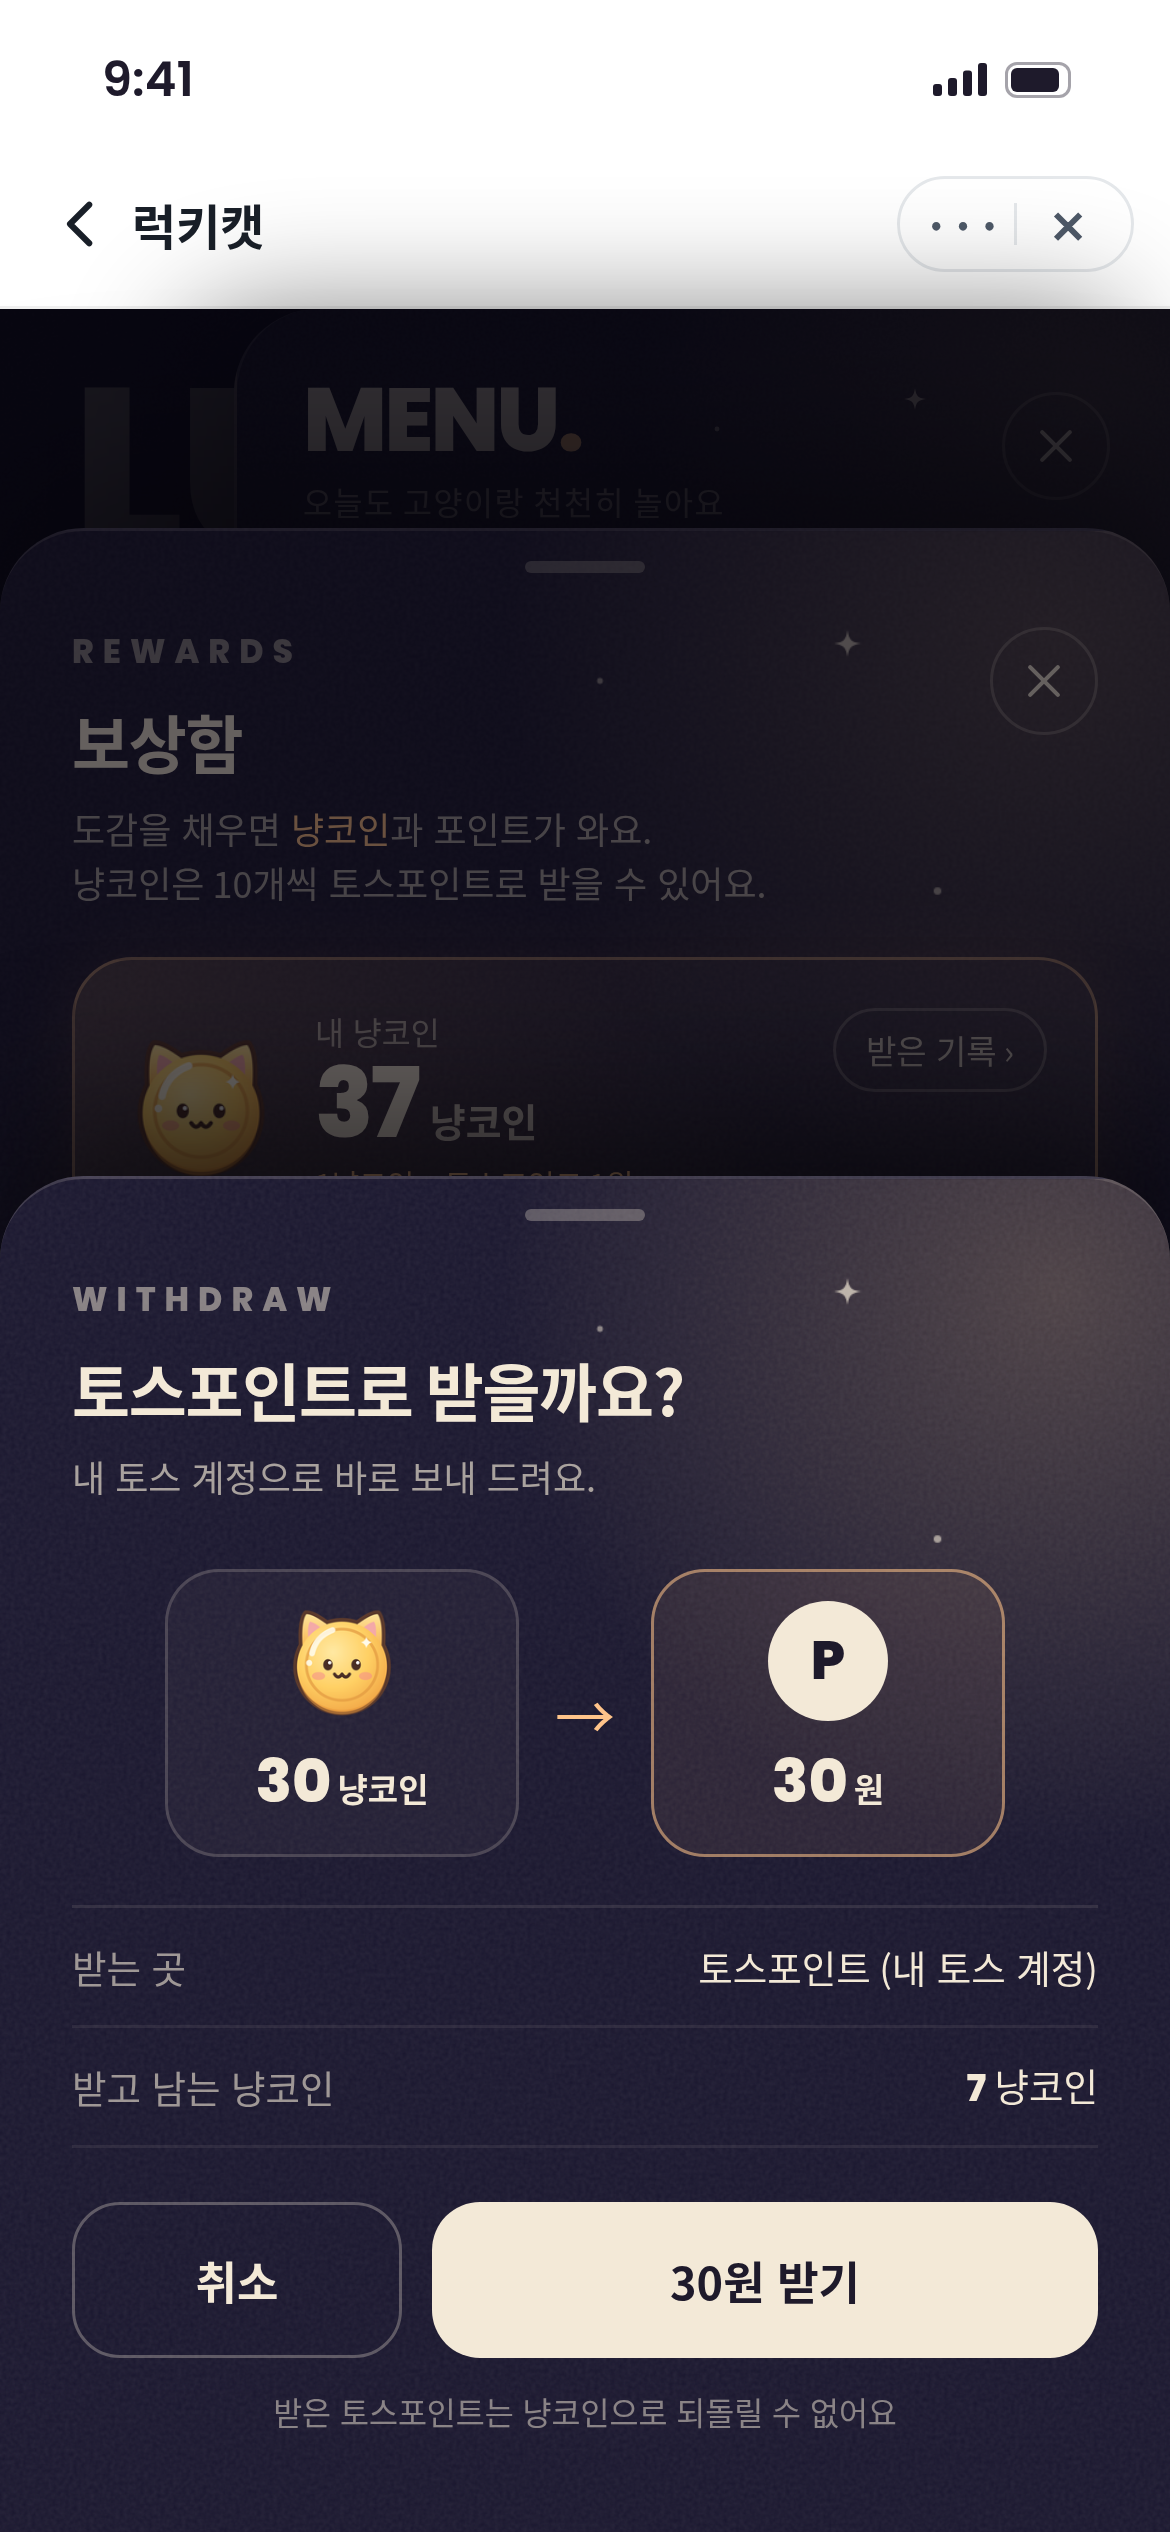
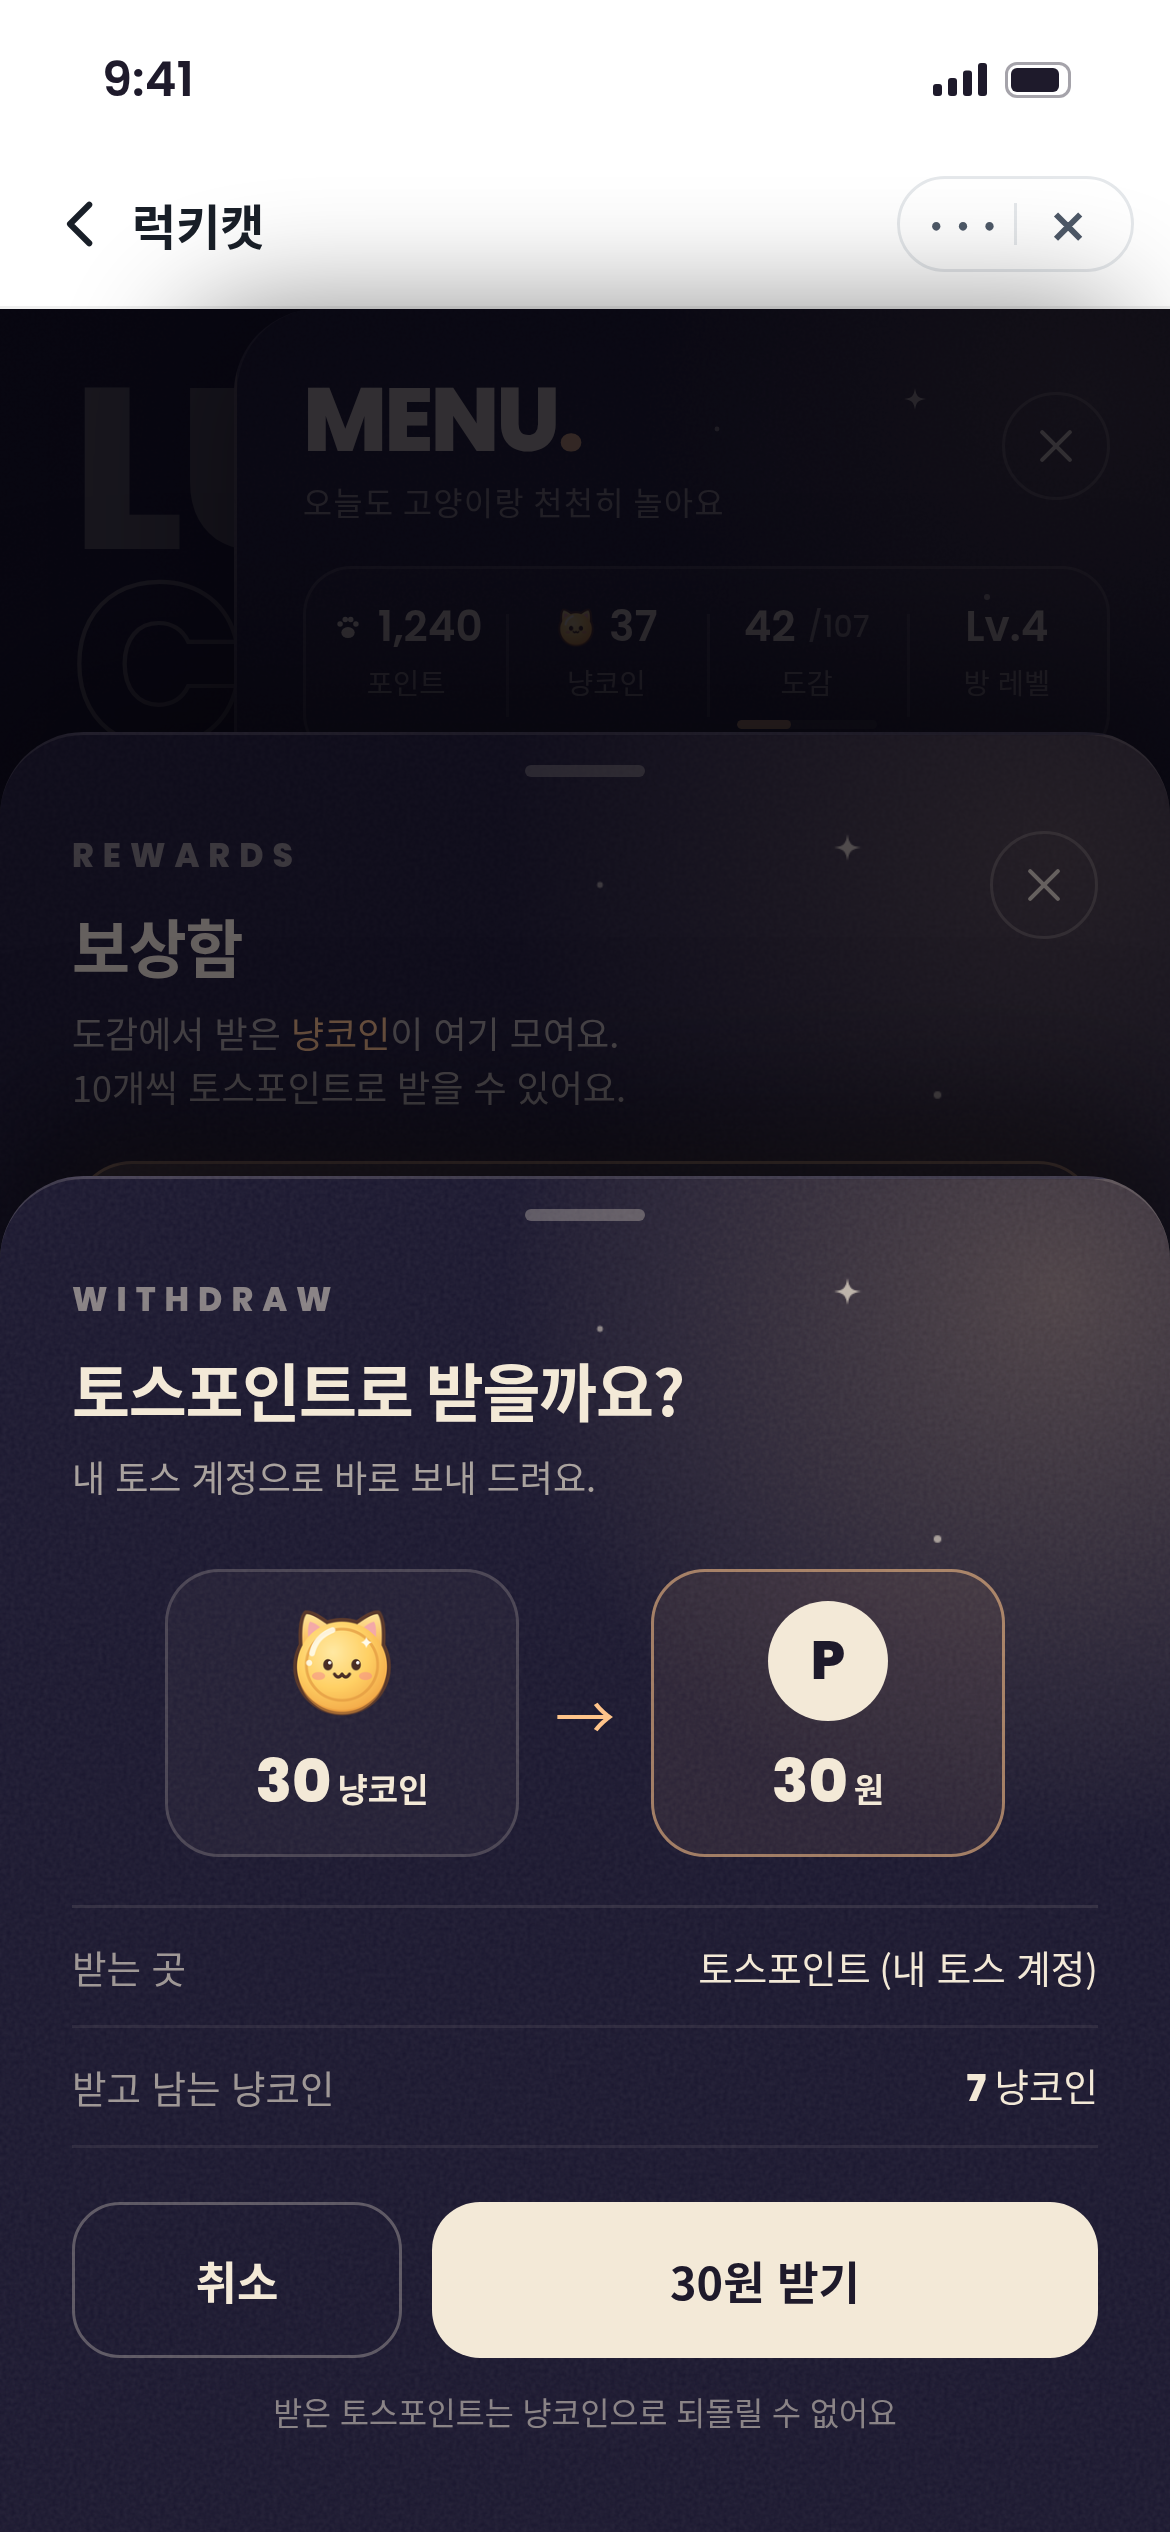
Update room assets

diff --git a/docs/draw-reveal/draw-reveal.html b/docs/draw-reveal/draw-reveal.html
@@ -53,6 +53,9 @@ body:not(.chrome) .content{top:0}
 .btn{height:52px;border-radius:16px;border:0;font-family:inherit;font-size:16px;font-weight:700;display:flex;align-items:center;justify-content:center;gap:8px}
 .btn.p{background:linear-gradient(180deg,#FFD3A0,#FFB36B);color:#2A1E10;box-shadow:0 8px 22px rgba(255,179,107,.28)}
 .btn.s{background:rgba(243,233,215,.08);color:#F3E9D7;border:1px solid rgba(243,233,215,.28);font-weight:500;font-size:15px}
+.btn.s.nudge{border-color:rgba(255,196,138,.7);box-shadow:0 0 0 5px rgba(255,196,138,.07),0 0 20px rgba(255,179,107,.25);animation:nudge 2.6s ease-in-out 1.2s infinite}
+@keyframes nudge{0%,80%,100%{transform:translateY(0)}86%{transform:translateY(-3px)}92%{transform:translateY(0)}96%{transform:translateY(-1.5px)}}
+.btn.s .adl{font-style:normal;font-size:9.5px;font-weight:700;border:1px solid rgba(243,233,215,.35);border-radius:5px;padding:0 5px;line-height:15px;color:rgba(243,233,215,.75)}
 .btn.s em{font-style:normal;font-size:11px;padding:2px 7px;border-radius:99px;background:rgba(243,233,215,.14);color:rgba(243,233,215,.85)}
 .toast{position:absolute;left:24px;right:24px;top:12px;z-index:10;display:flex;align-items:center;gap:10px;padding:11px 14px;border-radius:16px;
  background:#1C1830;border:1px solid rgba(243,233,215,.22);box-shadow:0 10px 30px rgba(0,0,0,.4);color:#F3E9D7;font-size:13px;opacity:0;transform:translateY(-24px)}
@@ -89,7 +92,7 @@ body.shot .demo{display:none}
   </div>
   <div class="info" id="info"><div class="n" id="name"></div><div class="s" id="stars"></div><div class="h">카드를 톡 누르면 뒷면을 볼 수 있어요</div></div>
[1 lines of base64/hex data omitted]
-  <div class="btns" id="btns"><button class="btn p" id="btn-to-dex">도감에 넣기</button><button class="btn s" id="btn-draw-again">한 번 더 뽑기 (광고) <em id="remain">남은 2회</em></button></div>
+  <div class="btns" id="btns"><button class="btn p" id="btn-to-dex">도감에 넣기</button><button class="btn s nudge" id="btn-draw-again">한 장 더 뽑기 <i class="adl">광고</i> <em id="remain">남은 2장</em></button></div>
  </div>
  <div class="home"></div>
 </div>

diff --git a/public/assets/dex/dex-claim-spec.md b/public/assets/dex/dex-claim-spec.md
@@ -1,0 +1,23 @@
+# 도감 보상 직접 받기 (claimMode: manual) — dex-spec 추가 섹션
+보상은 자동으로 지급하지 않아요. 도감에서 직접 받아요. 받지 않은 보상은 기한 없이 남아요.
+
+## 보상 id (계정당 1회, 서버에서 확인)
+newCard:{cardId} = 냥코인 1 + 20P · set:breed:{id} = +10 / +200P · set:special|character|legend = +10 / +300P · fullDex = +100 / +3000P
+API `POST /dex/rewards/claim {rewardIds|'all', requestId}`. 유니크 키(tossUserKey+rewardId), 지급과 claimed 표시는 한 트랜잭션, 같은 requestId로 재시도하면 같은 응답
+
+## UI
+| 위치 | id | 문구/동작 |
+|---|---|---|
+| 헤더 칩 | #dex-claim-all-chip / #btn-dex-claim-all | 받을 보상 {n}개 · 냥코인 {c} + {p}P [모두 받기] (n=0이면 숨김) |
+| 탭 점 | .tab .rd | 해당 탭에 받을 보상이 있을 때 |
+| 슬롯 코인 배지 | #dex-claim-{cardId} (.gift, 24pt, glow) | 처음 1회 툴팁: 톡, 눌러서 냥코인 1 + 20P 받기 |
+| 세트 행 | #btn-set-claim-{key} | 완성 보상 받기 (빛나는 버튼) → 축하 시트 |
+| 축하 시트 | #sheet-set-celebrate | SET COMPLETE / {품종} 1~5성을 모두 모았어요! / 한 품종을 끝까지 모은 집사에게 드리는 선물이에요 / +10 냥코인 +200 포인트 / [보상 받기] / 냥코인은 메뉴 › 보상함에서 10개부터 토스포인트로 받을 수 있어요 |
+| 그룹 | 동일 시트 | 스페셜·캐릭터·레전드 카드를 모두 모았어요! (+10 / +300P) |
+| 도감 완성 | #sheet-fulldex | 107마리를 모두 만났어요! 도감 완성! (전체 화면 컨페티, 큰 코인 비) +100 냥코인 +3000 포인트 |
+| 받기 토스트 | #dex-claim-toast | 냥코인 1개 + 20포인트 받았어요 / 보상 {n}개를 한 번에 받았어요 · 냥코인 {c}개 + {p}포인트 / 받을 보상을 모두 받았어요 |
+| 메인 도감 아이콘 | #btn-dex .rd | unclaimedCount>0 |
+| 보상함 | #btn-rewards-to-dex | 도감에서 받을 보상 {n}개 → 도감 가기 (보상함에는 모두 받기를 두지 않음) |
+
+연출: 코인 버스트(6~8개, 600ms) → 헤더 숫자 카운트업 + sfx-reward-coin. 응답을 받은 뒤에만 배지 제거. 실패하면 배지를 유지하고 "잠시 후 다시 받아 주세요"
+Mockups: dex-claim-new.png, dex-claim-set.png, dex-claim-celebrate.png, reveal-new-copy.png

diff --git a/public/assets/menu/menu-spec.md b/public/assets/menu/menu-spec.md
@@ -109,3 +109,6 @@ icon-attendance / points / exchange / rewards / rates / notice / invite / settin
 - 시트: 뽑기권 카드(아이콘 64, "확률업 뽑기권", "광고 없이 확률업 1회 · 5성↑ 27%", 가격 발바닥 아이콘 + 200 Pop 700 amber) → 한도 3칸(이번 주 n/7 · 오늘 n/2 · 보유 n/3) → 내 포인트(→ 산 뒤 잔액 미리보기) → "200P로 사기"(cream) → 보유 ≥1이면 보조 버튼 "지금 확률업 뽑기 (뽑기권 n장)" → 안내 "포인트는 방꾸미기에도 써요 · 이번 주 구매는 월요일 00:00에 다시 열려요".
 - 사면 토스트(상단, 초록 체크) "확률업 뽑기권 1장을 샀어요 / 남은 포인트 1,040P · 보유 1/3". 비활성 문구는 menu.json `sheets.ticketShop.disabled`.
 - 값은 economy.json `shop.tickets.rateUpTicket` (가격·한도), `tickets.rateUpTicket.maxHold`.
+
+## 11. 보상함 변경 (menu-1.6, claimMode manual)
+받을 보상 목록과 모두 받기를 없앴어요. 보상함에는 지갑(출금)과 바로가기 #btn-rewards-to-dex "도감에서 받을 보상 {n}개 · 도감 가기 ›"만 남아요. 받기는 도감 한 곳에서만 해요 (축하 연출을 도감에서 보여 주고, 중복 요청과 혼동을 막기 위해). n=0이면 "받을 도감 보상을 모두 받았어요"

diff --git a/config/ops-guide.md b/config/ops-guide.md
@@ -55,3 +55,6 @@
 - **시뮬레이션**(`/workspace/sim/sim.py opt`, 최대 참여 유저, 살 수 있으면 도감 먼저 구매): 도감 중앙값 285→197일(약 6.5개월), p90 436→297일. 방꾸미기 전부 살 수 있는 날은 144→267일(도감 완성 뒤엔 포인트가 다 방꾸미기로 가요). 포인트를 아끼면 방꾸미기는 그대로 약 144일이에요.
 - **서버**: `POST /shop/tickets/buy {ticketType, requestId}` — 잔액·주/일 한도·보유 한도 검증, paw 차감 + 뽑기권 +1 + 기록을 한 트랜잭션, 멱등키 `tossUserKey + requestId`.
 - **지표**: 주간 뽑기권 구매 수/유저, 광고 확률업 사용률(구매 도입 전후 비교 — 떨어지면 가격을 올리거나 한도를 줄여요).
+
+## 도감 보상 직접 받기 (1.5)
+새 카드와 세트 보상은 자동으로 적립하지 않아요. 도감에서 직접 받아요 (economy.dexRewards). 받지 않은 보상은 사라지지 않아요. 서버는 보상 id별로 계정당 한 번만 지급해요. 지표: 받지 않은 보상 수, 받기까지 걸린 시간. 튜토리얼 3단계에서 첫 받기를 안내하고, 받은 직후에 냥코인을 소개해요(tutorial-1.4).
